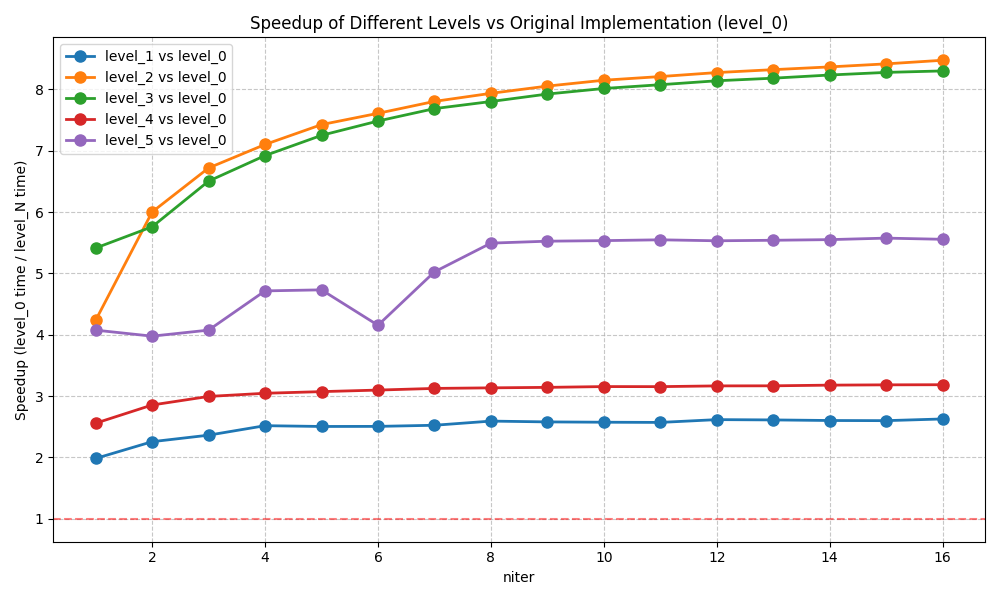
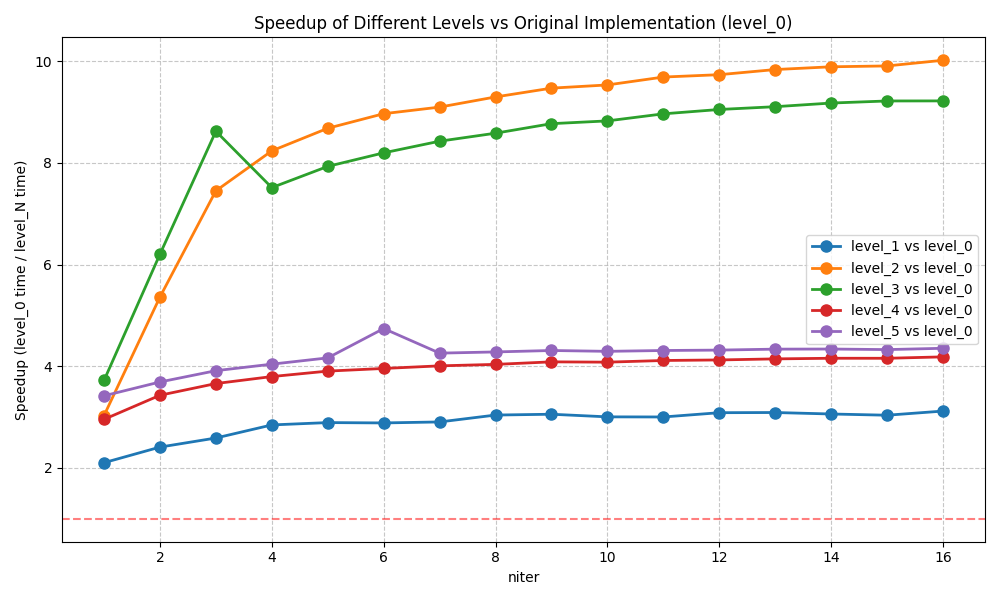
update README.md

diff --git a/README.md b/README.md
@@ -18,7 +18,7 @@ BitStack breaks down large language models into tiny little blocks, which can be
 
 
 ## 📰 News
-- [2024-11-06] 🚀 We've released Triton kernels optimized for fused inference with BitStack models! These kernels deliver an impressive **4.2x** to **8.5x** speedup over the original implementation. Just set the `--fused_level` flag to get started! For more details, check out the speedup visualization [here](./assets/speedup_visualization.png).
+- [2024-11-06] 🚀 We've released Triton kernels optimized for fused inference with BitStack models! These kernels deliver an impressive **3x** to **10x** speedup over the original implementation. Just set the `--fused_level` flag to get started! For more details, check out the speedup visualization [here](./assets/speedup_visualization.png).
 - [2024-11-01] 🎈 Try out this [Colab demo](https://colab.research.google.com/drive/1GoXIVyhofOEpGzOUint8LOivlFSDVHle?usp=sharing) and play with BitStack models across various memory budgets using an intuitive slider built with Gradio!
 - [2024-11-01] 📄 Check out our paper on [arXiv](https://arxiv.org/abs/2410.23918)!
 - [2024-10-31] ✨ Pre-decomposed models are now available on [HuggingFace🤗](https://huggingface.co/BitStack)!
